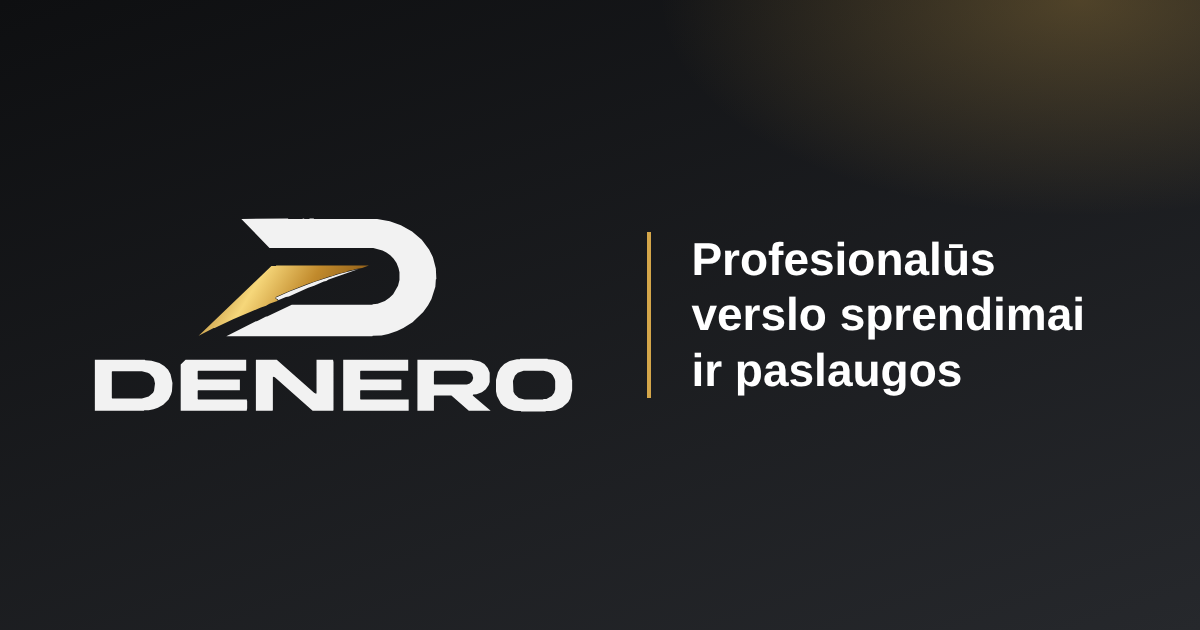
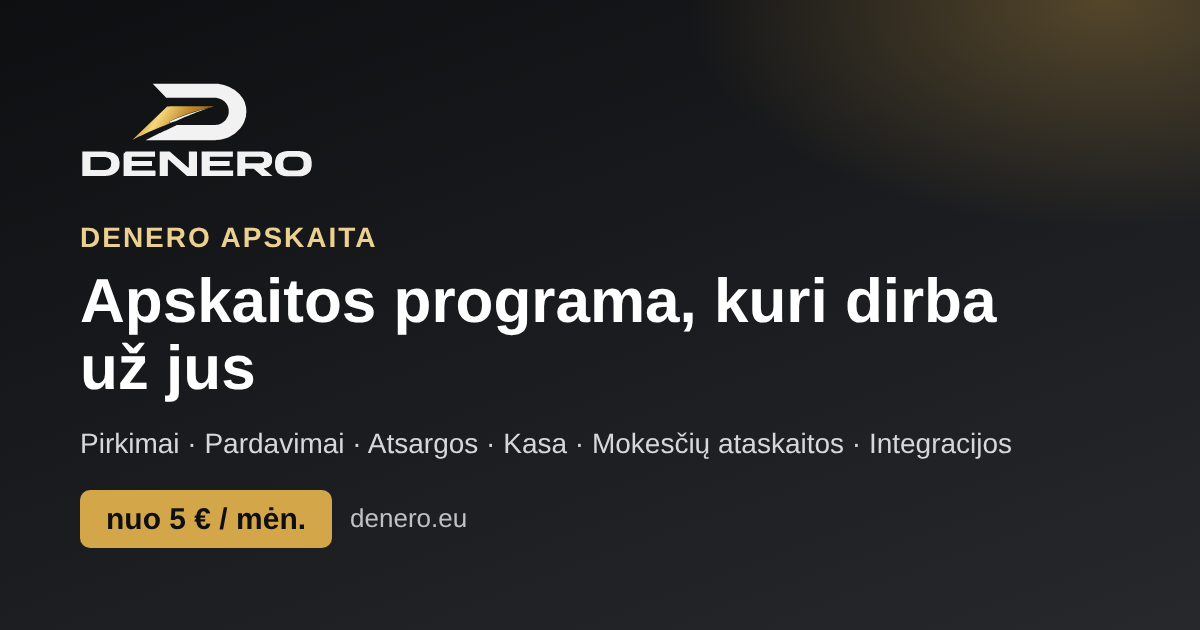
SEO ir AI: DENERO Apskaita moduliai, DUK (FAQPage), SoftwareApplication su planų kainomis, llms.txt planai, naujas og-image, raktiniai žodžiai
- Pradinio puslapio funkcijos pakeistos tikrais moduliais, H1 su raktažodžiu „apskaitos programa“
- DUK skiltis (7 klausimai) su kainomis, vartotojais, moduliais, integracijomis
- JSON-LD: SoftwareApplication + AggregateOffer (mėnesinės ir metinės kainos be PVM), FAQPage
- Sprendimo puslapis DENERO Apskaita su moduliais ir planais
- llms.txt / llms-full.txt: Apskaitos planai, priedai, DUK

Claude-Session: https://claude.ai/code/session_01YNVx2NxTYbmBkVpsd7LEFi

diff --git a/src/i18n/llms.ts b/src/i18n/llms.ts
@@ -18,12 +18,48 @@ function contacts(lang: Lang) {
   ].join('\n');
 }
 
+
+function apskaitaBlock(lang: Lang, site: URL) {
+  const a = (ap as any)[lang];
+  const lt = lang === 'lt';
+  const eur = (n: number) => (lt ? `${n} €` : `€${n}`);
+  const out: string[] = [];
+  out.push(`## DENERO Apskaita${lt ? ' – apskaitos programa' : ' – accounting software'}`, `URL: ${abs(lt ? '/' : '/en/', site)}`, `${lt ? 'Prisijungimas' : 'Login'}: ${ap.login_url}`, '');
+  out.push(a.text, '');
+  out.push(`### ${a.features_title}`, '');
+  for (const f of a.features) out.push(`- **${f.title}** – ${f.text}`);
+  out.push('', `### ${a.plans_title} (${lt ? 'kainos be PVM' : 'prices excl. VAT'})`, '');
+  for (const p of a.plans) {
+    if (p.price_m) {
+      out.push(`#### ${p.name} – ${eur(p.price_m)} ${a.per_m} / ${eur(p.price_y)} ${a.per_y}`);
+      out.push(`${p.desc}. ${(p.users === 1 ? a.users_incl_1 : a.users_incl).replace('{n}', String(p.users))}${p.extra_user_m ? `; ${a.extra_user_m.replace('{p}', eur(p.extra_user_m))}` : ''}.`);
+    } else {
+      out.push(`#### ${p.name} – ${p.price}`, `${p.desc}. ${p.intro ?? ''}`);
+    }
+    out.push(`${a.features_label} ${p.features.join(', ')}${p.plus ? `; ${p.plus}` : ''}.`);
+    if (p.addons) {
+      out.push(`${a.addons_toggle}: ` + p.addons.map((x: any) => x.tiers
+        ? `${x.name} (${x.tiers.map((t: any) => `${t.label} ${eur(t.m)}${a.per_m_short}`).join(', ')})`
+        : `${x.name} ${eur(x.m)}${a.per_m_short} / ${eur(x.y)}${a.per_y_short}`).join('; ') + '.');
+    }
+    out.push('');
+  }
+  out.push(`### ${a.faq_title}`, '');
+  for (const f of a.faq) out.push(`**${f.q}**`, '', f.a, '');
+  return out;
+}
+
 export async function buildLlmsTxt(site: URL) {
   const out: string[] = [];
   out.push(`# ${settings.short_name}`, "");
   out.push(`> ${settings.seo.lt.default_description}`, '');
   out.push(`> ${settings.seo.en.default_description}`, '');
   out.push(`DENERO Apskaita: ${ap.en.text} Login: ${ap.login_url}. Plans and pricing: ${abs('/#planai', site)}.`, '', 'Based in Lithuania, serving clients in Lithuanian and English.', '');
+  out.push('## DENERO Apskaita', '',
+    `- LT: ${ap.lt.text} ${abs('/', site)}`,
+    `- EN: ${ap.en.text} ${abs('/en/', site)}`,
+    `- Planai / Plans: ` + ap.lt.plans.map((p: any) => p.price_m ? `${p.name} ${p.price_m} €/mėn. (${p.price_y} €/metus), ${p.users} vart.` : `${p.name} – ${p.price}`).join('; ') + ' (be PVM / excl. VAT)',
+    `- Prisijungimas / Login: ${ap.login_url}`, '');
   out.push('## Kontaktai / Contact', '', contacts('lt'), `- Web: ${site.href}`, '');
   for (const lang of ['lt', 'en'] as Lang[]) {
     out.push(lang === 'lt' ? '## Paslaugos (LT)' : '## Services (EN)', '');
@@ -54,6 +90,7 @@ export async function buildLlmsFull(site: URL) {
     const lt = lang === 'lt';
     const about = await getPage(lang, 'about');
     out.push(`# ${lt ? 'Lietuvių kalba' : 'English'}`, '');
+    out.push(...apskaitaBlock(lang, site));
     out.push(`## ${about.data.title}`, `URL: ${abs(routes.about[lang], site)}`, '');
     if (about.data.lead) out.push(about.data.lead, '');
     out.push((about.body ?? '').trim(), '');

diff --git a/src/content/solutions/lt/denero-apskaita.md b/src/content/solutions/lt/denero-apskaita.md
@@ -1,19 +1,32 @@
 ---
 title: "DENERO Apskaita"
-summary: "Paprasta ir saugi apskaitos sistema internete: sąskaitos, pirkimai, pardavimai ir ataskaitos – vienoje vietoje."
+summary: "Apskaitos programa internete: pirkimai, pardavimai, atsargos, ilgalaikis turtas, kasa, mokesčių ataskaitos ir el. prekybos integracijos. Nuo 5 € / mėn."
 icon: doc
 order: 1
 cta_url: "https://apskaita.denero.eu"
 cta_label: "Prisijungti"
-seo_title: "DENERO Apskaita – apskaitos sistema internete"
-seo_description: "DENERO Apskaita – apskaitos sistema internete: sąskaitos faktūros, pirkimai, pardavimai, banko operacijos ir ataskaitos. Peržiūrėkite planus ir kainas."
+price: "nuo 5 € / mėn. + PVM"
+seo_title: "DENERO Apskaita – apskaitos programa internete"
+seo_description: "DENERO Apskaita – apskaitos programa internete: pirkimai, pardavimai, atsargos, ilgalaikis turtas, kasa, i.VAZ, mokesčių ataskaitos. Planai nuo 5 € / mėn."
 ---
-**DENERO Apskaita** – apskaitos sistema, veikianti naršyklėje: išrašykite sąskaitas, tvarkykite pirkimus ir pardavimus, importuokite banko išrašus ir matykite ataskaitas realiu laiku.
+**DENERO Apskaita** – apskaitos programa, veikianti naršyklėje adresu [apskaita.denero.eu](https://apskaita.denero.eu). Skirta mažoms, augančioms ir didesnėms įmonėms bei buhalterinės apskaitos įmonėms.
 
-* Sąskaitos faktūros ir apmokėjimų sekimas
-* Pirkimai, pardavimai, klientai ir tiekėjai
-* Banko operacijos
-* Ataskaitos realiu laiku
-* Komandos darbas su teisių valdymu
+## Moduliai
 
-[Peržiūrėkite planus ir kainas →](/#planai)
+* Pirkimai ir pardavimai
+* Atsargos
+* Ilgalaikis turtas
+* Kasa ir avanso apyskaitos
+* Mokėjimų paketai ir valiuta
+* Mokesčių ataskaitos ir i.VAZ
+* WooCommerce, Shopify, PrestaShop, Paysera, Montonio integracijos ir API
+* Papildomi moduliai: sutartys, personalas ir darbo užmokestis, gamyba
+
+## Planai (kainos be PVM)
+
+* **Startas** – 5 € / mėn. arba 55 € / metus, 3 vartotojai
+* **Verslas** – 10 € / mėn. arba 110 € / metus, 5 vartotojai
+* **Verslas+** – 18 € / mėn. arba 198 € / metus, 10 vartotojų
+* **Individualus** – buhalterinės apskaitos įmonėms ir didesnėms įmonėms, pagal susitarimą
+
+[Peržiūrėkite planus ir priedų kainas →](/#planai)

diff --git a/src/content/solutions/en/denero-apskaita.md b/src/content/solutions/en/denero-apskaita.md
@@ -1,19 +1,32 @@
 ---
 title: "DENERO Apskaita"
-summary: "A simple, secure online accounting system: invoices, purchases, sales and reports – all in one place."
+summary: "Online accounting software: purchases, sales, inventory, fixed assets, cash desk, tax reports and e-commerce integrations. From €5 / month."
 icon: doc
 order: 1
 cta_url: "https://apskaita.denero.eu"
 cta_label: "Log in"
-seo_title: "DENERO Apskaita – online accounting system"
-seo_description: "DENERO Apskaita – an online accounting system: invoices, purchases, sales, bank transactions and reports. See plans and pricing."
+price: "from €5 / month + VAT"
+seo_title: "DENERO Apskaita – online accounting software"
+seo_description: "DENERO Apskaita – online accounting software: purchases, sales, inventory, fixed assets, cash desk, i.VAZ, tax reports. Plans from €5 / month."
 ---
-**DENERO Apskaita** is an accounting system that runs in your browser: issue invoices, manage purchases and sales, import bank statements and see real-time reports.
+**DENERO Apskaita** is accounting software that runs in your browser at [apskaita.denero.eu](https://apskaita.denero.eu). It is built for small, growing and larger companies as well as accounting firms.
 
-* Invoices and payment tracking
-* Purchases, sales, customers and suppliers
-* Bank transactions
-* Real-time reports
-* Teamwork with permission management
+## Modules
 
-[See plans and pricing →](/en/#planai)
+* Purchases and sales
+* Inventory
+* Fixed assets
+* Cash desk and advance reports
+* Payment batches and currencies
+* Tax reports and i.VAZ
+* WooCommerce, Shopify, PrestaShop, Paysera, Montonio integrations and API
+* Add-on modules: contracts, HR and payroll, manufacturing
+
+## Plans (prices excl. VAT)
+
+* **Start** – €5 / month or €55 / year, 3 users
+* **Business** – €10 / month or €110 / year, 5 users
+* **Business+** – €18 / month or €198 / year, 10 users
+* **Custom** – for accounting firms and larger companies, on request
+
+[See plans and add-on prices →](/en/#planai)
